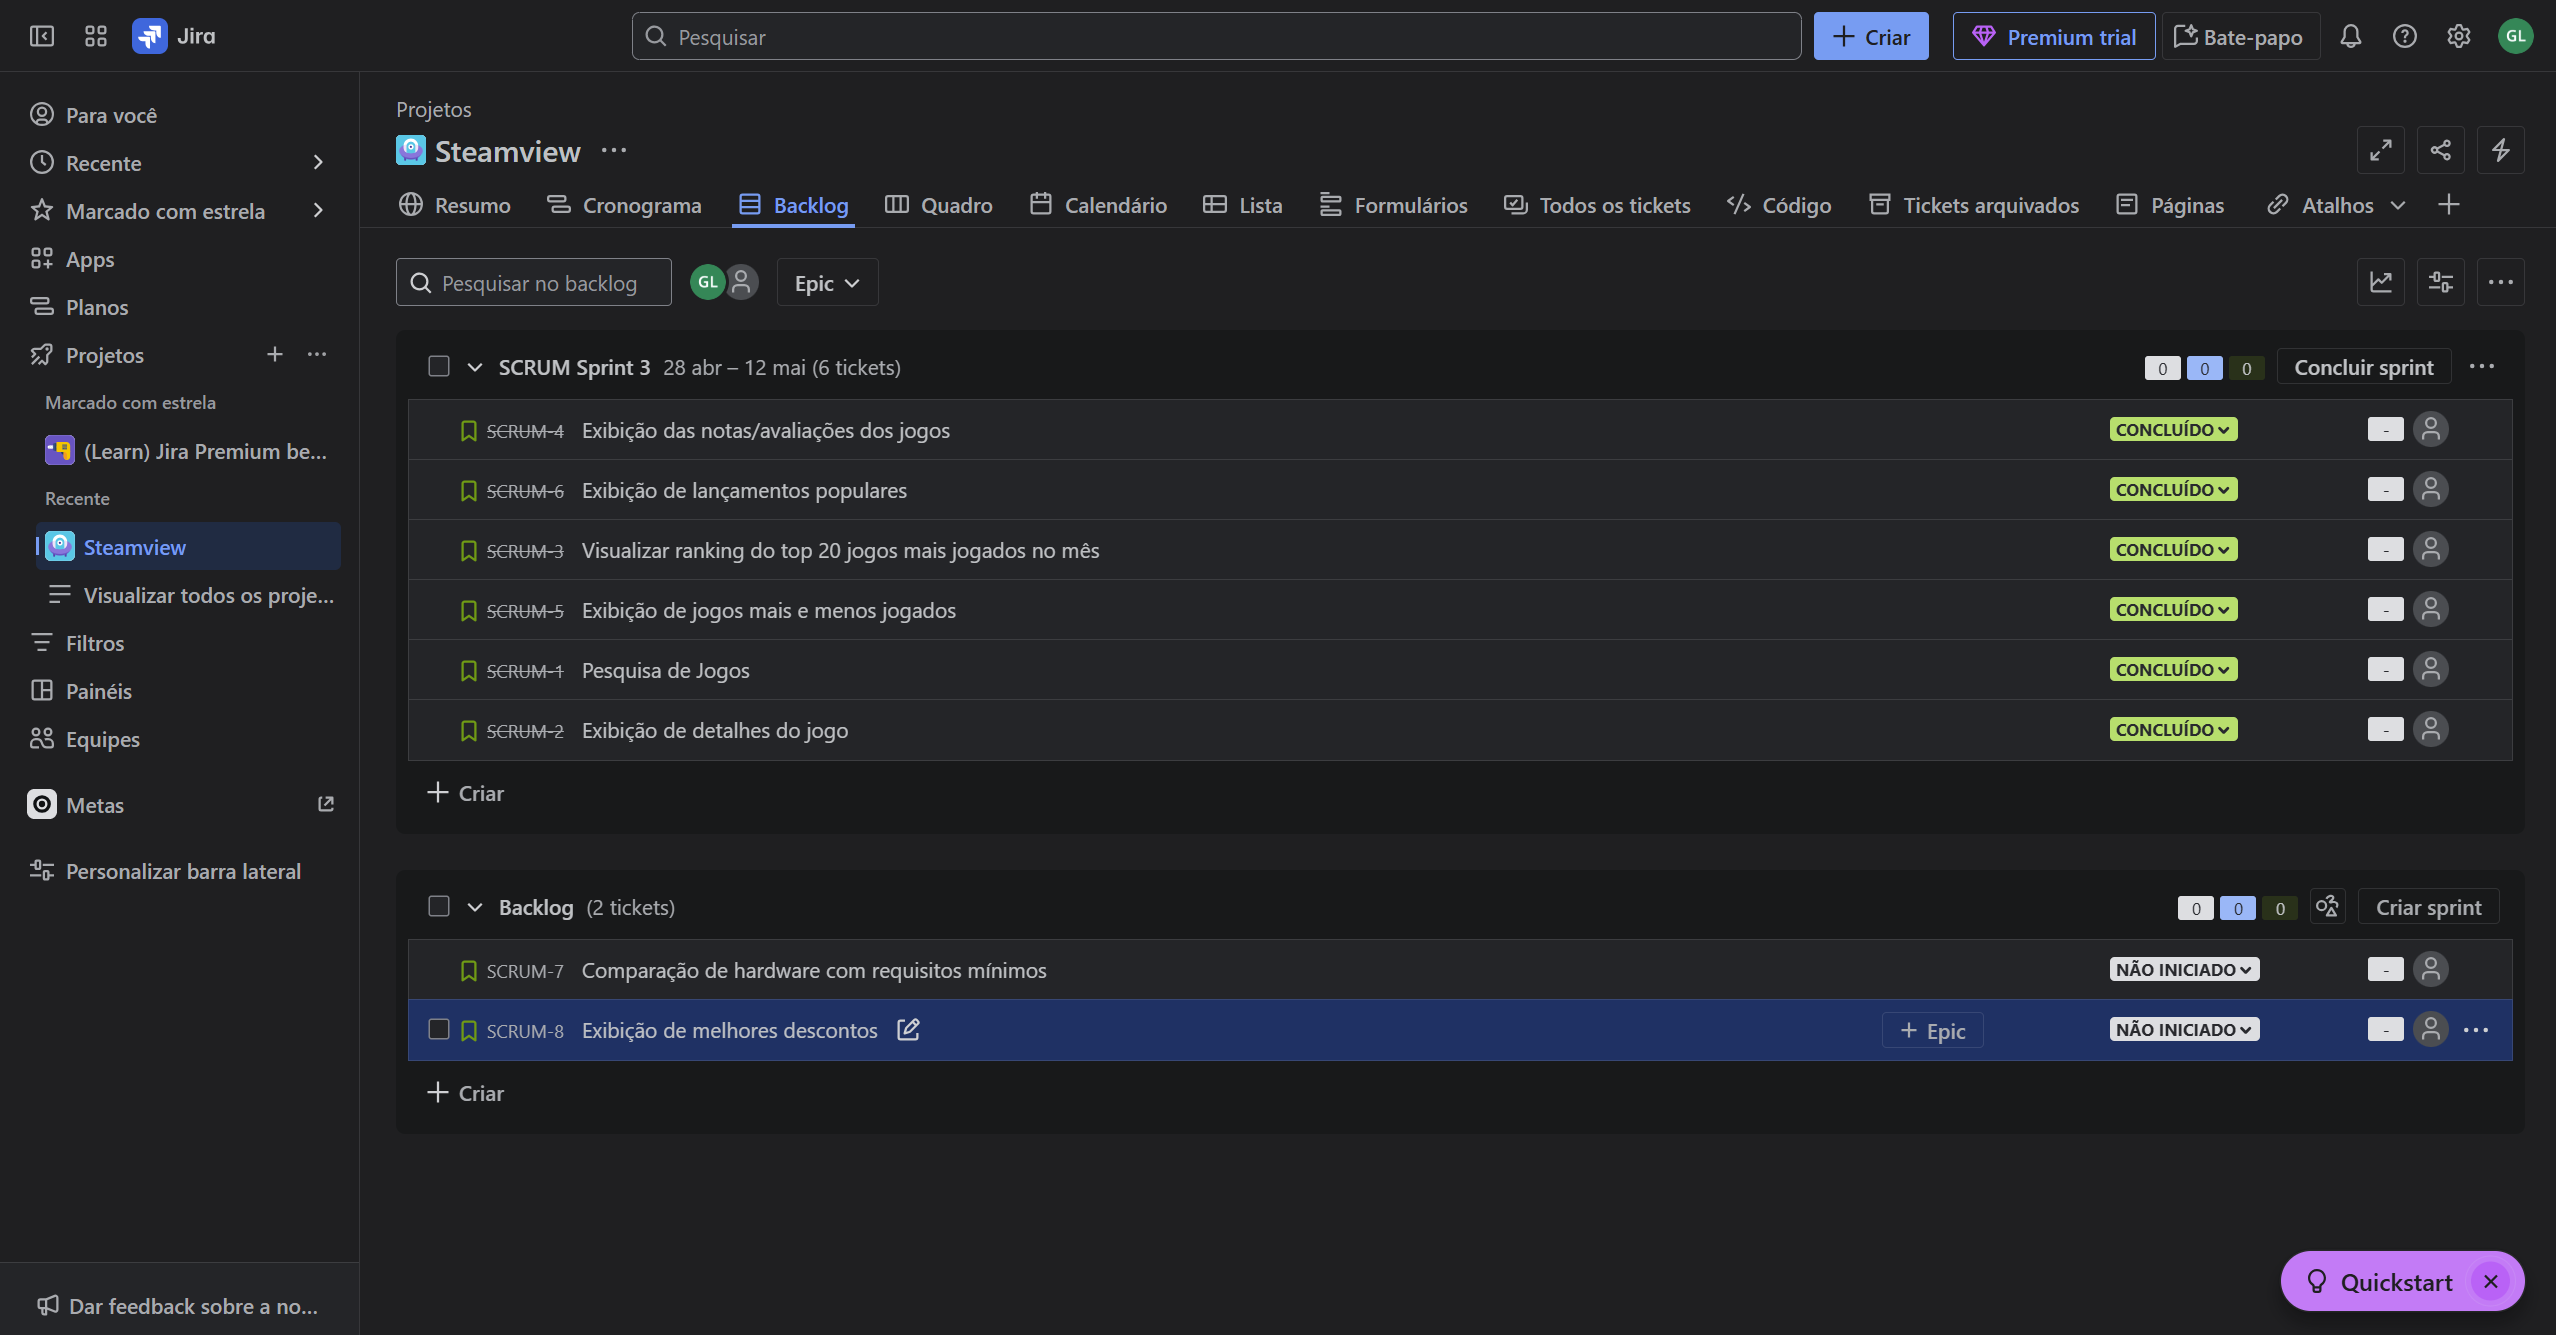
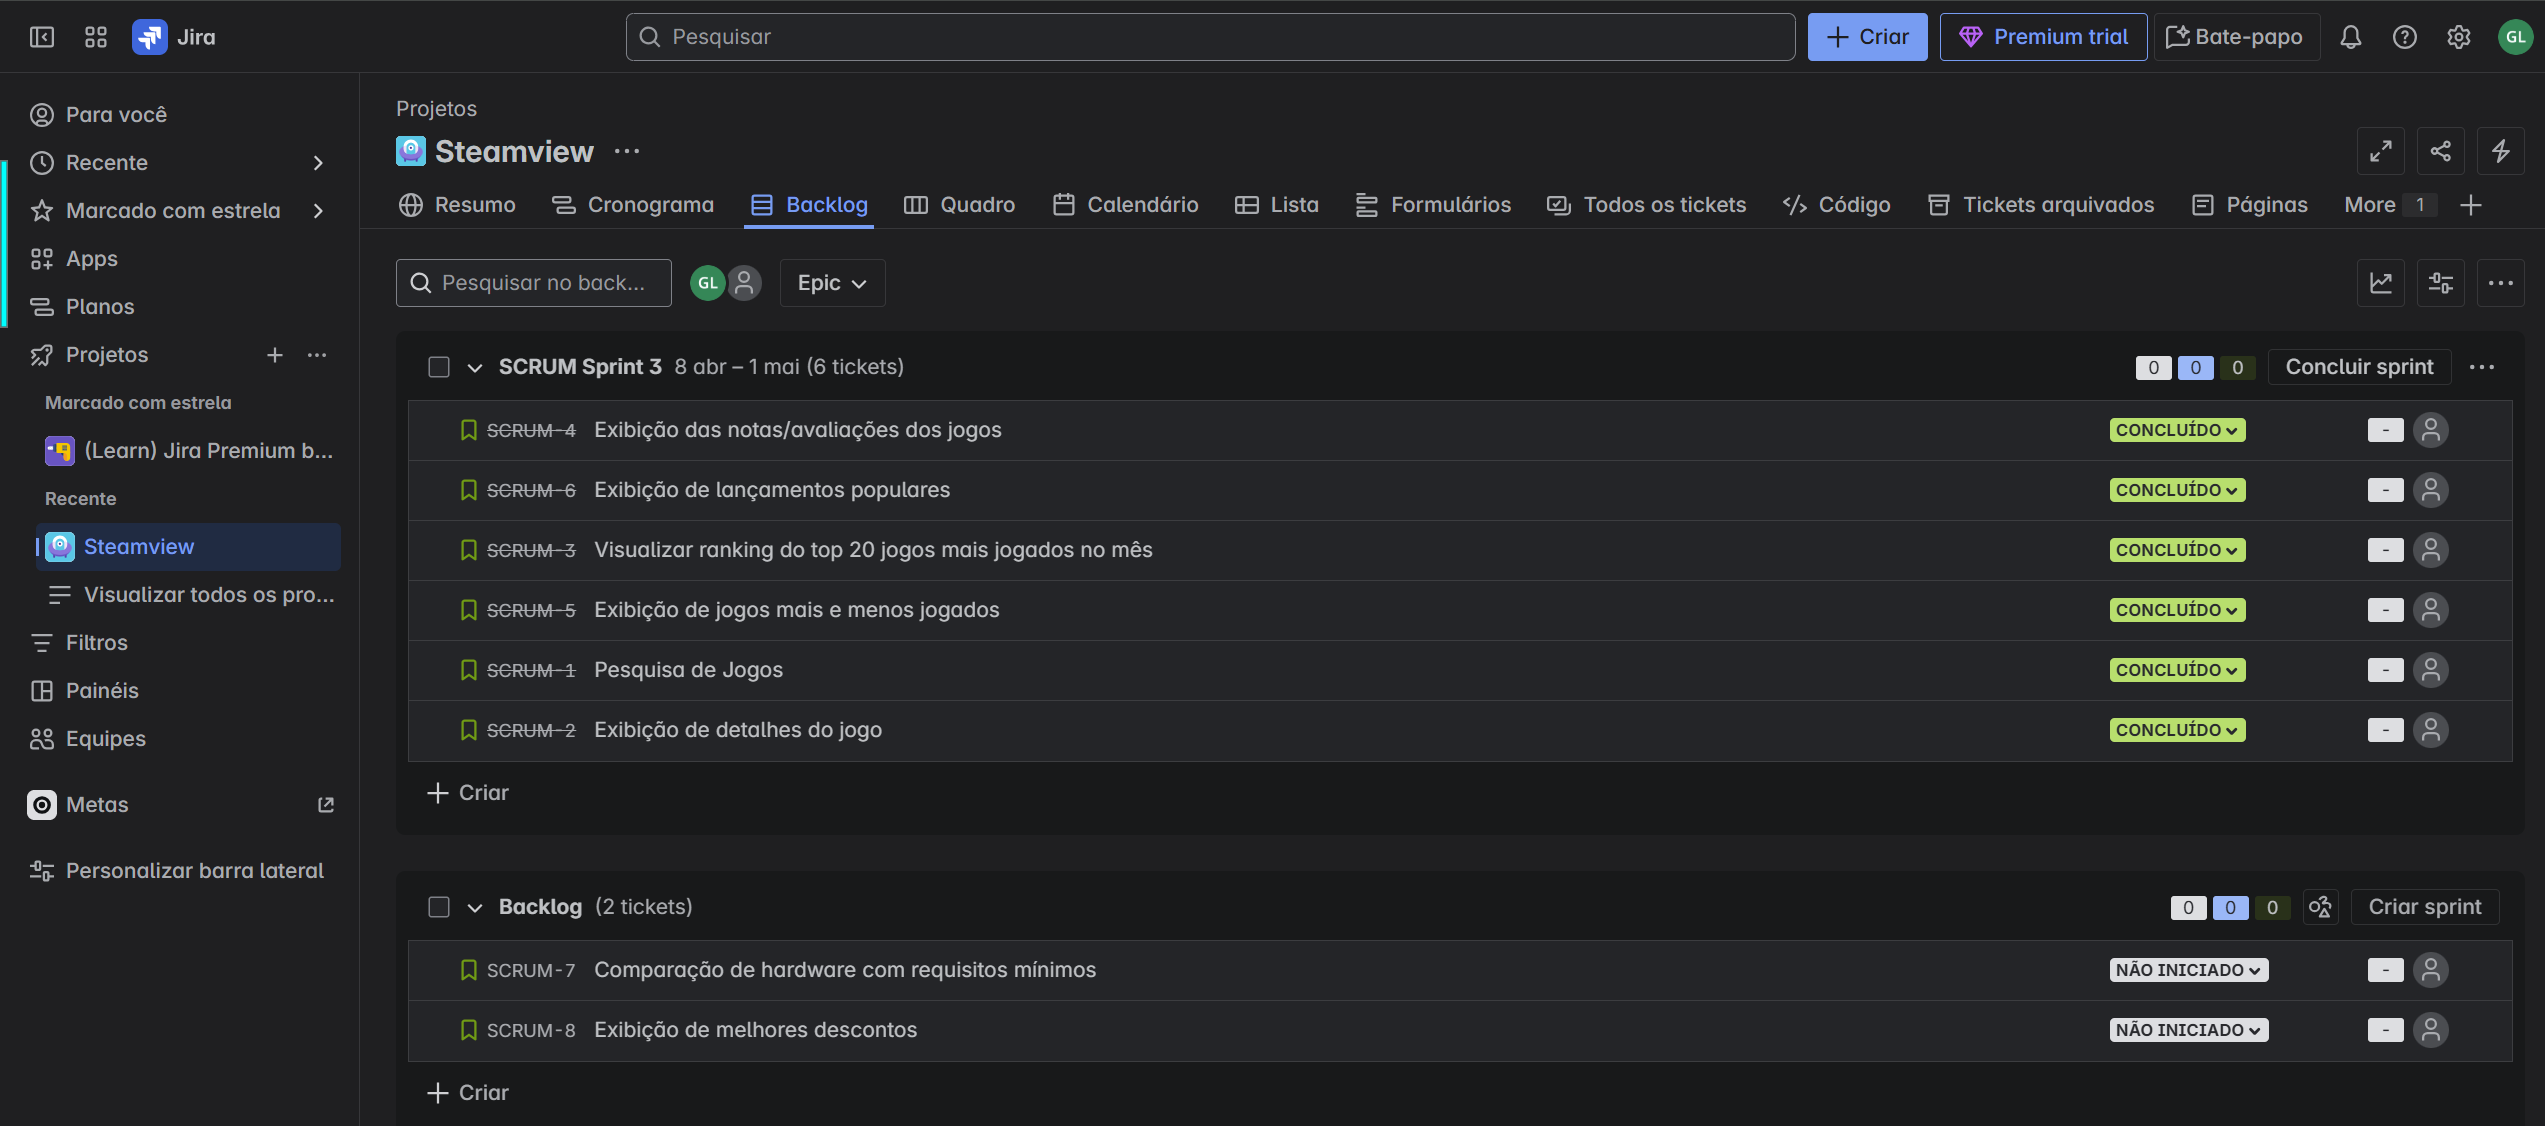
atualizando foto do jira

diff --git a/README.md b/README.md
@@ -231,7 +231,7 @@ Trouxemos uma atualização do Jira, que é por onde conseguimos gerenciar o and
 
 BackLog:
 
-![Jira](img/backlogsprint3.png)
+![Jira](img/backlogSprint3.png)
 
 Board:
 
